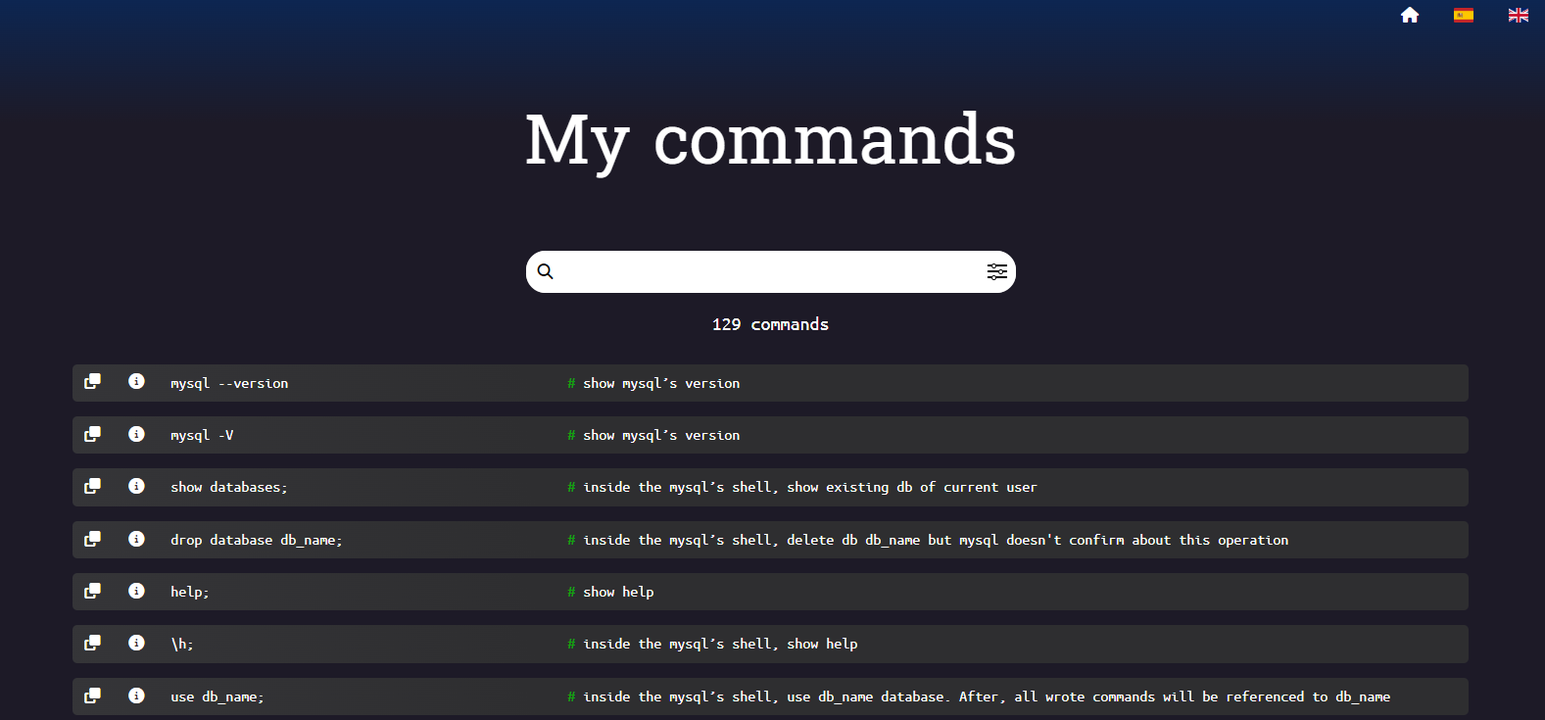
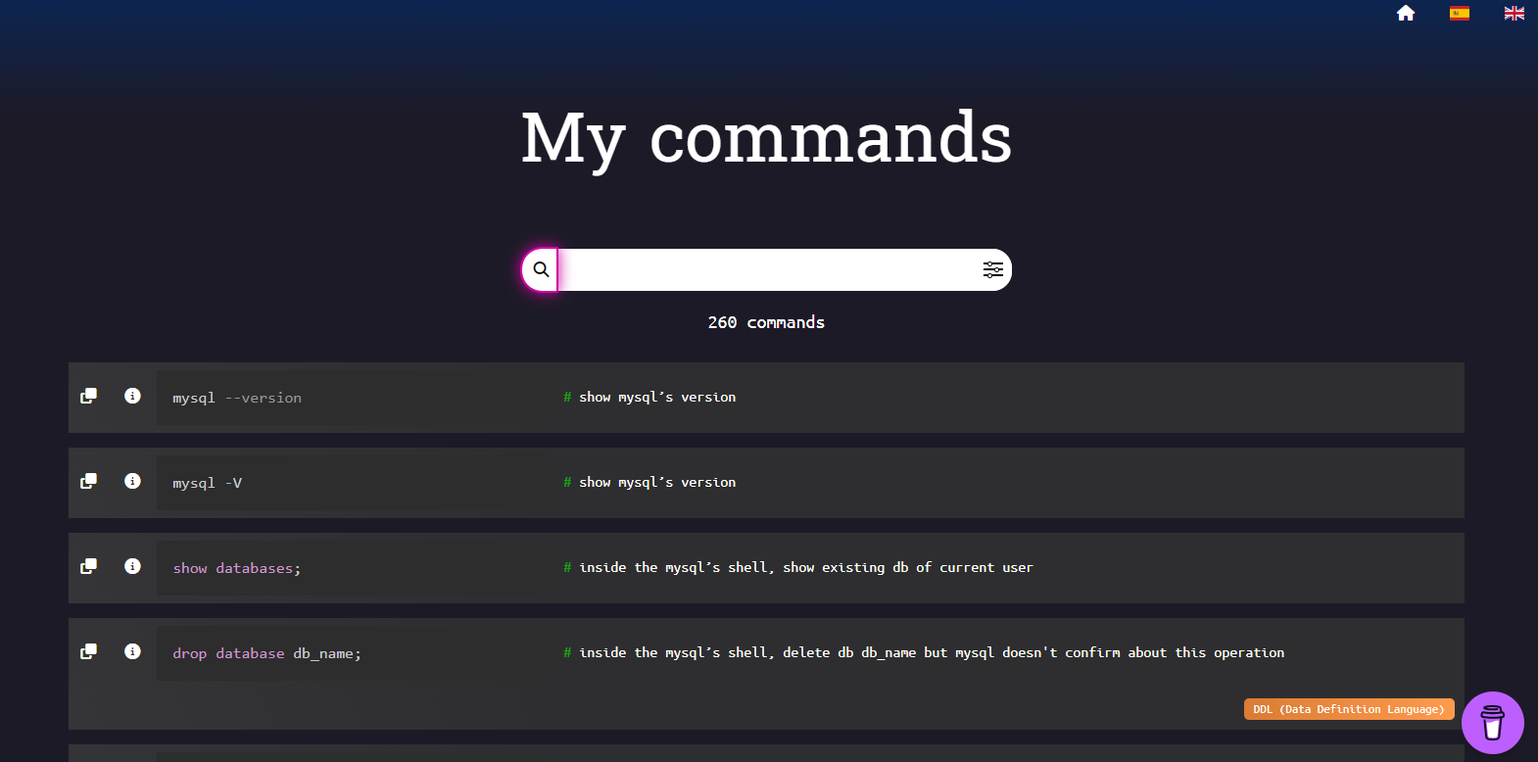
Update REASDME.md 13-05-2023

diff --git a/src/js/prism.js b/src/js/prism.js
@@ -1,12 +1,14 @@
 /* PrismJS 1.29.0
-https://prismjs.com/download.html#themes=prism-tomorrow&languages=markup+css+clike+javascript+bash+jsx+tsx+sql+typescript */
+https://prismjs.com/download.html#themes=prism-tomorrow&languages=markup+css+clike+javascript+bash+git+jsx+tsx+sql+typescript+typoscript */
 var _self="undefined"!=typeof window?window:"undefined"!=typeof WorkerGlobalScope&&self instanceof WorkerGlobalScope?self:{},Prism=function(e){var n=/(?:^|\s)lang(?:uage)?-([\w-]+)(?=\s|$)/i,t=0,r={},a={manual:e.Prism&&e.Prism.manual,disableWorkerMessageHandler:e.Prism&&e.Prism.disableWorkerMessageHandler,util:{encode:function e(n){return n instanceof i?new i(n.type,e(n.content),n.alias):Array.isArray(n)?n.map(e):n.replace(/&/g,"&amp;").replace(/</g,"&lt;").replace(/\u00a0/g," ")},type:function(e){return Object.prototype.toString.call(e).slice(8,-1)},objId:function(e){return e.__id||Object.defineProperty(e,"__id",{value:++t}),e.__id},clone:function e(n,t){var r,i;switch(t=t||{},a.util.type(n)){case"Object":if(i=a.util.objId(n),t[i])return t[i];for(var l in r={},t[i]=r,n)n.hasOwnProperty(l)&&(r[l]=e(n[l],t));return r;case"Array":return i=a.util.objId(n),t[i]?t[i]:(r=[],t[i]=r,n.forEach((function(n,a){r[a]=e(n,t)})),r);default:return n}},getLanguage:function(e){for(;e;){var t=n.exec(e.className);if(t)return t[1].toLowerCase();e=e.parentElement}return"none"},setLanguage:function(e,t){e.className=e.className.replace(RegExp(n,"gi"),""),e.classList.add("language-"+t)},currentScript:function(){if("undefined"==typeof document)return null;if("currentScript"in document)return document.currentScript;try{throw new Error}catch(r){var e=(/at [^(\r\n]*\((.*):[^:]+:[^:]+\)$/i.exec(r.stack)||[])[1];if(e){var n=document.getElementsByTagName("script");for(var t in n)if(n[t].src==e)return n[t]}return null}},isActive:function(e,n,t){for(var r="no-"+n;e;){var a=e.classList;if(a.contains(n))return!0;if(a.contains(r))return!1;e=e.parentElement}return!!t}},languages:{plain:r,plaintext:r,text:r,txt:r,extend:function(e,n){var t=a.util.clone(a.languages[e]);for(var r in n)t[r]=n[r];return t},insertBefore:function(e,n,t,r){var i=(r=r||a.languages)[e],l={};for(var o in i)if(i.hasOwnProperty(o)){if(o==n)for(var s in t)t.hasOwnProperty(s)&&(l[s]=t[s]);t.hasOwnProperty(o)||(l[o]=i[o])}var u=r[e];return r[e]=l,a.languages.DFS(a.languages,(function(n,t){t===u&&n!=e&&(this[n]=l)})),l},DFS:function e(n,t,r,i){i=i||{};var l=a.util.objId;for(var o in n)if(n.hasOwnProperty(o)){t.call(n,o,n[o],r||o);var s=n[o],u=a.util.type(s);"Object"!==u||i[l(s)]?"Array"!==u||i[l(s)]||(i[l(s)]=!0,e(s,t,o,i)):(i[l(s)]=!0,e(s,t,null,i))}}},plugins:{},highlightAll:function(e,n){a.highlightAllUnder(document,e,n)},highlightAllUnder:function(e,n,t){var r={callback:t,container:e,selector:'code[class*="language-"], [class*="language-"] code, code[class*="lang-"], [class*="lang-"] code'};a.hooks.run("before-highlightall",r),r.elements=Array.prototype.slice.apply(r.container.querySelectorAll(r.selector)),a.hooks.run("before-all-elements-highlight",r);for(var i,l=0;i=r.elements[l++];)a.highlightElement(i,!0===n,r.callback)},highlightElement:function(n,t,r){var i=a.util.getLanguage(n),l=a.languages[i];a.util.setLanguage(n,i);var o=n.parentElement;o&&"pre"===o.nodeName.toLowerCase()&&a.util.setLanguage(o,i);var s={element:n,language:i,grammar:l,code:n.textContent};function u(e){s.highlightedCode=e,a.hooks.run("before-insert",s),s.element.innerHTML=s.highlightedCode,a.hooks.run("after-highlight",s),a.hooks.run("complete",s),r&&r.call(s.element)}if(a.hooks.run("before-sanity-check",s),(o=s.element.parentElement)&&"pre"===o.nodeName.toLowerCase()&&!o.hasAttribute("tabindex")&&o.setAttribute("tabindex","0"),!s.code)return a.hooks.run("complete",s),void(r&&r.call(s.element));if(a.hooks.run("before-highlight",s),s.grammar)if(t&&e.Worker){var c=new Worker(a.filename);c.onmessage=function(e){u(e.data)},c.postMessage(JSON.stringify({language:s.language,code:s.code,immediateClose:!0}))}else u(a.highlight(s.code,s.grammar,s.language));else u(a.util.encode(s.code))},highlight:function(e,n,t){var r={code:e,grammar:n,language:t};if(a.hooks.run("before-tokenize",r),!r.grammar)throw new Error('The language "'+r.language+'" has no grammar.');return r.tokens=a.tokenize(r.code,r.grammar),a.hooks.run("after-tokenize",r),i.stringify(a.util.encode(r.tokens),r.language)},tokenize:function(e,n){var t=n.rest;if(t){for(var r in t)n[r]=t[r];delete n.rest}var a=new s;return u(a,a.head,e),o(e,a,n,a.head,0),function(e){for(var n=[],t=e.head.next;t!==e.tail;)n.push(t.value),t=t.next;return n}(a)},hooks:{all:{},add:function(e,n){var t=a.hooks.all;t[e]=t[e]||[],t[e].push(n)},run:function(e,n){var t=a.hooks.all[e];if(t&&t.length)for(var r,i=0;r=t[i++];)r(n)}},Token:i};function i(e,n,t,r){this.type=e,this.content=n,this.alias=t,this.length=0|(r||"").length}function l(e,n,t,r){e.lastIndex=n;var a=e.exec(t);if(a&&r&&a[1]){var i=a[1].length;a.index+=i,a[0]=a[0].slice(i)}return a}function o(e,n,t,r,s,g){for(var f in t)if(t.hasOwnProperty(f)&&t[f]){var h=t[f];h=Array.isArray(h)?h:[h];for(var d=0;d<h.length;++d){if(g&&g.cause==f+","+d)return;var v=h[d],p=v.inside,m=!!v.lookbehind,y=!!v.greedy,k=v.alias;if(y&&!v.pattern.global){var x=v.pattern.toString().match(/[imsuy]*$/)[0];v.pattern=RegExp(v.pattern.source,x+"g")}for(var b=v.pattern||v,w=r.next,A=s;w!==n.tail&&!(g&&A>=g.reach);A+=w.value.length,w=w.next){var E=w.value;if(n.length>e.length)return;if(!(E instanceof i)){var P,L=1;if(y){if(!(P=l(b,A,e,m))||P.index>=e.length)break;var S=P.index,O=P.index+P[0].length,j=A;for(j+=w.value.length;S>=j;)j+=(w=w.next).value.length;if(A=j-=w.value.length,w.value instanceof i)continue;for(var C=w;C!==n.tail&&(j<O||"string"==typeof C.value);C=C.next)L++,j+=C.value.length;L--,E=e.slice(A,j),P.index-=A}else if(!(P=l(b,0,E,m)))continue;S=P.index;var N=P[0],_=E.slice(0,S),M=E.slice(S+N.length),W=A+E.length;g&&W>g.reach&&(g.reach=W);var z=w.prev;if(_&&(z=u(n,z,_),A+=_.length),c(n,z,L),w=u(n,z,new i(f,p?a.tokenize(N,p):N,k,N)),M&&u(n,w,M),L>1){var I={cause:f+","+d,reach:W};o(e,n,t,w.prev,A,I),g&&I.reach>g.reach&&(g.reach=I.reach)}}}}}}function s(){var e={value:null,prev:null,next:null},n={value:null,prev:e,next:null};e.next=n,this.head=e,this.tail=n,this.length=0}function u(e,n,t){var r=n.next,a={value:t,prev:n,next:r};return n.next=a,r.prev=a,e.length++,a}function c(e,n,t){for(var r=n.next,a=0;a<t&&r!==e.tail;a++)r=r.next;n.next=r,r.prev=n,e.length-=a}if(e.Prism=a,i.stringify=function e(n,t){if("string"==typeof n)return n;if(Array.isArray(n)){var r="";return n.forEach((function(n){r+=e(n,t)})),r}var i={type:n.type,content:e(n.content,t),tag:"span",classes:["token",n.type],attributes:{},language:t},l=n.alias;l&&(Array.isArray(l)?Array.prototype.push.apply(i.classes,l):i.classes.push(l)),a.hooks.run("wrap",i);var o="";for(var s in i.attributes)o+=" "+s+'="'+(i.attributes[s]||"").replace(/"/g,"&quot;")+'"';return"<"+i.tag+' class="'+i.classes.join(" ")+'"'+o+">"+i.content+"</"+i.tag+">"},!e.document)return e.addEventListener?(a.disableWorkerMessageHandler||e.addEventListener("message",(function(n){var t=JSON.parse(n.data),r=t.language,i=t.code,l=t.immediateClose;e.postMessage(a.highlight(i,a.languages[r],r)),l&&e.close()}),!1),a):a;var g=a.util.currentScript();function f(){a.manual||a.highlightAll()}if(g&&(a.filename=g.src,g.hasAttribute("data-manual")&&(a.manual=!0)),!a.manual){var h=document.readyState;"loading"===h||"interactive"===h&&g&&g.defer?document.addEventListener("DOMContentLoaded",f):window.requestAnimationFrame?window.requestAnimationFrame(f):window.setTimeout(f,16)}return a}(_self);"undefined"!=typeof module&&module.exports&&(module.exports=Prism),"undefined"!=typeof global&&(global.Prism=Prism);
 Prism.languages.markup={comment:{pattern:/<!--(?:(?!<!--)[\s\S])*?-->/,greedy:!0},prolog:{pattern:/<\?[\s\S]+?\?>/,greedy:!0},doctype:{pattern:/<!DOCTYPE(?:[^>"'[\]]|"[^"]*"|'[^']*')+(?:\[(?:[^<"'\]]|"[^"]*"|'[^']*'|<(?!!--)|<!--(?:[^-]|-(?!->))*-->)*\]\s*)?>/i,greedy:!0,inside:{"internal-subset":{pattern:/(^[^\[]*\[)[\s\S]+(?=\]>$)/,lookbehind:!0,greedy:!0,inside:null},string:{pattern:/"[^"]*"|'[^']*'/,greedy:!0},punctuation:/^<!|>$|[[\]]/,"doctype-tag":/^DOCTYPE/i,name:/[^\s<>'"]+/}},cdata:{pattern:/<!\[CDATA\[[\s\S]*?\]\]>/i,greedy:!0},tag:{pattern:/<\/?(?!\d)[^\s>\/=$<%]+(?:\s(?:\s*[^\s>\/=]+(?:\s*=\s*(?:"[^"]*"|'[^']*'|[^\s'">=]+(?=[\s>]))|(?=[\s/>])))+)?\s*\/?>/,greedy:!0,inside:{tag:{pattern:/^<\/?[^\s>\/]+/,inside:{punctuation:/^<\/?/,namespace:/^[^\s>\/:]+:/}},"special-attr":[],"attr-value":{pattern:/=\s*(?:"[^"]*"|'[^']*'|[^\s'">=]+)/,inside:{punctuation:[{pattern:/^=/,alias:"attr-equals"},{pattern:/^(\s*)["']|["']$/,lookbehind:!0}]}},punctuation:/\/?>/,"attr-name":{pattern:/[^\s>\/]+/,inside:{namespace:/^[^\s>\/:]+:/}}}},entity:[{pattern:/&[\da-z]{1,8};/i,alias:"named-entity"},/&#x?[\da-f]{1,8};/i]},Prism.languages.markup.tag.inside["attr-value"].inside.entity=Prism.languages.markup.entity,Prism.languages.markup.doctype.inside["internal-subset"].inside=Prism.languages.markup,Prism.hooks.add("wrap",(function(a){"entity"===a.type&&(a.attributes.title=a.content.replace(/&amp;/,"&"))})),Object.defineProperty(Prism.languages.markup.tag,"addInlined",{value:function(a,e){var s={};s["language-"+e]={pattern:/(^<!\[CDATA\[)[\s\S]+?(?=\]\]>$)/i,lookbehind:!0,inside:Prism.languages[e]},s.cdata=/^<!\[CDATA\[|\]\]>$/i;var t={"included-cdata":{pattern:/<!\[CDATA\[[\s\S]*?\]\]>/i,inside:s}};t["language-"+e]={pattern:/[\s\S]+/,inside:Prism.languages[e]};var n={};n[a]={pattern:RegExp("(<__[^>]*>)(?:<!\\[CDATA\\[(?:[^\\]]|\\](?!\\]>))*\\]\\]>|(?!<!\\[CDATA\\[)[^])*?(?=</__>)".replace(/__/g,(function(){return a})),"i"),lookbehind:!0,greedy:!0,inside:t},Prism.languages.insertBefore("markup","cdata",n)}}),Object.defineProperty(Prism.languages.markup.tag,"addAttribute",{value:function(a,e){Prism.languages.markup.tag.inside["special-attr"].push({pattern:RegExp("(^|[\"'\\s])(?:"+a+")\\s*=\\s*(?:\"[^\"]*\"|'[^']*'|[^\\s'\">=]+(?=[\\s>]))","i"),lookbehind:!0,inside:{"attr-name":/^[^\s=]+/,"attr-value":{pattern:/=[\s\S]+/,inside:{value:{pattern:/(^=\s*(["']|(?!["'])))\S[\s\S]*(?=\2$)/,lookbehind:!0,alias:[e,"language-"+e],inside:Prism.languages[e]},punctuation:[{pattern:/^=/,alias:"attr-equals"},/"|'/]}}}})}}),Prism.languages.html=Prism.languages.markup,Prism.languages.mathml=Prism.languages.markup,Prism.languages.svg=Prism.languages.markup,Prism.languages.xml=Prism.languages.extend("markup",{}),Prism.languages.ssml=Prism.languages.xml,Prism.languages.atom=Prism.languages.xml,Prism.languages.rss=Prism.languages.xml;
 !function(s){var e=/(?:"(?:\\(?:\r\n|[\s\S])|[^"\\\r\n])*"|'(?:\\(?:\r\n|[\s\S])|[^'\\\r\n])*')/;s.languages.css={comment:/\/\*[\s\S]*?\*\//,atrule:{pattern:RegExp("@[\\w-](?:[^;{\\s\"']|\\s+(?!\\s)|"+e.source+")*?(?:;|(?=\\s*\\{))"),inside:{rule:/^@[\w-]+/,"selector-function-argument":{pattern:/(\bselector\s*\(\s*(?![\s)]))(?:[^()\s]|\s+(?![\s)])|\((?:[^()]|\([^()]*\))*\))+(?=\s*\))/,lookbehind:!0,alias:"selector"},keyword:{pattern:/(^|[^\w-])(?:and|not|only|or)(?![\w-])/,lookbehind:!0}}},url:{pattern:RegExp("\\burl\\((?:"+e.source+"|(?:[^\\\\\r\n()\"']|\\\\[^])*)\\)","i"),greedy:!0,inside:{function:/^url/i,punctuation:/^\(|\)$/,string:{pattern:RegExp("^"+e.source+"$"),alias:"url"}}},selector:{pattern:RegExp("(^|[{}\\s])[^{}\\s](?:[^{};\"'\\s]|\\s+(?![\\s{])|"+e.source+")*(?=\\s*\\{)"),lookbehind:!0},string:{pattern:e,greedy:!0},property:{pattern:/(^|[^-\w\xA0-\uFFFF])(?!\s)[-_a-z\xA0-\uFFFF](?:(?!\s)[-\w\xA0-\uFFFF])*(?=\s*:)/i,lookbehind:!0},important:/!important\b/i,function:{pattern:/(^|[^-a-z0-9])[-a-z0-9]+(?=\()/i,lookbehind:!0},punctuation:/[(){};:,]/},s.languages.css.atrule.inside.rest=s.languages.css;var t=s.languages.markup;t&&(t.tag.addInlined("style","css"),t.tag.addAttribute("style","css"))}(Prism);
 Prism.languages.clike={comment:[{pattern:/(^|[^\\])\/\*[\s\S]*?(?:\*\/|$)/,lookbehind:!0,greedy:!0},{pattern:/(^|[^\\:])\/\/.*/,lookbehind:!0,greedy:!0}],string:{pattern:/(["'])(?:\\(?:\r\n|[\s\S])|(?!\1)[^\\\r\n])*\1/,greedy:!0},"class-name":{pattern:/(\b(?:class|extends|implements|instanceof|interface|new|trait)\s+|\bcatch\s+\()[\w.\\]+/i,lookbehind:!0,inside:{punctuation:/[.\\]/}},keyword:/\b(?:break|catch|continue|do|else|finally|for|function|if|in|instanceof|new|null|return|throw|try|while)\b/,boolean:/\b(?:false|true)\b/,function:/\b\w+(?=\()/,number:/\b0x[\da-f]+\b|(?:\b\d+(?:\.\d*)?|\B\.\d+)(?:e[+-]?\d+)?/i,operator:/[<>]=?|[!=]=?=?|--?|\+\+?|&&?|\|\|?|[?*/~^%]/,punctuation:/[{}[\];(),.:]/};
 Prism.languages.javascript=Prism.languages.extend("clike",{"class-name":[Prism.languages.clike["class-name"],{pattern:/(^|[^$\w\xA0-\uFFFF])(?!\s)[_$A-Z\xA0-\uFFFF](?:(?!\s)[$\w\xA0-\uFFFF])*(?=\.(?:constructor|prototype))/,lookbehind:!0}],keyword:[{pattern:/((?:^|\})\s*)catch\b/,lookbehind:!0},{pattern:/(^|[^.]|\.\.\.\s*)\b(?:as|assert(?=\s*\{)|async(?=\s*(?:function\b|\(|[$\w\xA0-\uFFFF]|$))|await|break|case|class|const|continue|debugger|default|delete|do|else|enum|export|extends|finally(?=\s*(?:\{|$))|for|from(?=\s*(?:['"]|$))|function|(?:get|set)(?=\s*(?:[#\[$\w\xA0-\uFFFF]|$))|if|implements|import|in|instanceof|interface|let|new|null|of|package|private|protected|public|return|static|super|switch|this|throw|try|typeof|undefined|var|void|while|with|yield)\b/,lookbehind:!0}],function:/#?(?!\s)[_$a-zA-Z\xA0-\uFFFF](?:(?!\s)[$\w\xA0-\uFFFF])*(?=\s*(?:\.\s*(?:apply|bind|call)\s*)?\()/,number:{pattern:RegExp("(^|[^\\w$])(?:NaN|Infinity|0[bB][01]+(?:_[01]+)*n?|0[oO][0-7]+(?:_[0-7]+)*n?|0[xX][\\dA-Fa-f]+(?:_[\\dA-Fa-f]+)*n?|\\d+(?:_\\d+)*n|(?:\\d+(?:_\\d+)*(?:\\.(?:\\d+(?:_\\d+)*)?)?|\\.\\d+(?:_\\d+)*)(?:[Ee][+-]?\\d+(?:_\\d+)*)?)(?![\\w$])"),lookbehind:!0},operator:/--|\+\+|\*\*=?|=>|&&=?|\|\|=?|[!=]==|<<=?|>>>?=?|[-+*/%&|^!=<>]=?|\.{3}|\?\?=?|\?\.?|[~:]/}),Prism.languages.javascript["class-name"][0].pattern=/(\b(?:class|extends|implements|instanceof|interface|new)\s+)[\w.\\]+/,Prism.languages.insertBefore("javascript","keyword",{regex:{pattern:RegExp("((?:^|[^$\\w\\xA0-\\uFFFF.\"'\\])\\s]|\\b(?:return|yield))\\s*)/(?:(?:\\[(?:[^\\]\\\\\r\n]|\\\\.)*\\]|\\\\.|[^/\\\\\\[\r\n])+/[dgimyus]{0,7}|(?:\\[(?:[^[\\]\\\\\r\n]|\\\\.|\\[(?:[^[\\]\\\\\r\n]|\\\\.|\\[(?:[^[\\]\\\\\r\n]|\\\\.)*\\])*\\])*\\]|\\\\.|[^/\\\\\\[\r\n])+/[dgimyus]{0,7}v[dgimyus]{0,7})(?=(?:\\s|/\\*(?:[^*]|\\*(?!/))*\\*/)*(?:$|[\r\n,.;:})\\]]|//))"),lookbehind:!0,greedy:!0,inside:{"regex-source":{pattern:/^(\/)[\s\S]+(?=\/[a-z]*$)/,lookbehind:!0,alias:"language-regex",inside:Prism.languages.regex},"regex-delimiter":/^\/|\/$/,"regex-flags":/^[a-z]+$/}},"function-variable":{pattern:/#?(?!\s)[_$a-zA-Z\xA0-\uFFFF](?:(?!\s)[$\w\xA0-\uFFFF])*(?=\s*[=:]\s*(?:async\s*)?(?:\bfunction\b|(?:\((?:[^()]|\([^()]*\))*\)|(?!\s)[_$a-zA-Z\xA0-\uFFFF](?:(?!\s)[$\w\xA0-\uFFFF])*)\s*=>))/,alias:"function"},parameter:[{pattern:/(function(?:\s+(?!\s)[_$a-zA-Z\xA0-\uFFFF](?:(?!\s)[$\w\xA0-\uFFFF])*)?\s*\(\s*)(?!\s)(?:[^()\s]|\s+(?![\s)])|\([^()]*\))+(?=\s*\))/,lookbehind:!0,inside:Prism.languages.javascript},{pattern:/(^|[^$\w\xA0-\uFFFF])(?!\s)[_$a-z\xA0-\uFFFF](?:(?!\s)[$\w\xA0-\uFFFF])*(?=\s*=>)/i,lookbehind:!0,inside:Prism.languages.javascript},{pattern:/(\(\s*)(?!\s)(?:[^()\s]|\s+(?![\s)])|\([^()]*\))+(?=\s*\)\s*=>)/,lookbehind:!0,inside:Prism.languages.javascript},{pattern:/((?:\b|\s|^)(?!(?:as|async|await|break|case|catch|class|const|continue|debugger|default|delete|do|else|enum|export|extends|finally|for|from|function|get|if|implements|import|in|instanceof|interface|let|new|null|of|package|private|protected|public|return|set|static|super|switch|this|throw|try|typeof|undefined|var|void|while|with|yield)(?![$\w\xA0-\uFFFF]))(?:(?!\s)[_$a-zA-Z\xA0-\uFFFF](?:(?!\s)[$\w\xA0-\uFFFF])*\s*)\(\s*|\]\s*\(\s*)(?!\s)(?:[^()\s]|\s+(?![\s)])|\([^()]*\))+(?=\s*\)\s*\{)/,lookbehind:!0,inside:Prism.languages.javascript}],constant:/\b[A-Z](?:[A-Z_]|\dx?)*\b/}),Prism.languages.insertBefore("javascript","string",{hashbang:{pattern:/^#!.*/,greedy:!0,alias:"comment"},"template-string":{pattern:/`(?:\\[\s\S]|\$\{(?:[^{}]|\{(?:[^{}]|\{[^}]*\})*\})+\}|(?!\$\{)[^\\`])*`/,greedy:!0,inside:{"template-punctuation":{pattern:/^`|`$/,alias:"string"},interpolation:{pattern:/((?:^|[^\\])(?:\\{2})*)\$\{(?:[^{}]|\{(?:[^{}]|\{[^}]*\})*\})+\}/,lookbehind:!0,inside:{"interpolation-punctuation":{pattern:/^\$\{|\}$/,alias:"punctuation"},rest:Prism.languages.javascript}},string:/[\s\S]+/}},"string-property":{pattern:/((?:^|[,{])[ \t]*)(["'])(?:\\(?:\r\n|[\s\S])|(?!\2)[^\\\r\n])*\2(?=\s*:)/m,lookbehind:!0,greedy:!0,alias:"property"}}),Prism.languages.insertBefore("javascript","operator",{"literal-property":{pattern:/((?:^|[,{])[ \t]*)(?!\s)[_$a-zA-Z\xA0-\uFFFF](?:(?!\s)[$\w\xA0-\uFFFF])*(?=\s*:)/m,lookbehind:!0,alias:"property"}}),Prism.languages.markup&&(Prism.languages.markup.tag.addInlined("script","javascript"),Prism.languages.markup.tag.addAttribute("on(?:abort|blur|change|click|composition(?:end|start|update)|dblclick|error|focus(?:in|out)?|key(?:down|up)|load|mouse(?:down|enter|leave|move|out|over|up)|reset|resize|scroll|select|slotchange|submit|unload|wheel)","javascript")),Prism.languages.js=Prism.languages.javascript;
 !function(e){var t="\\b(?:BASH|BASHOPTS|BASH_ALIASES|BASH_ARGC|BASH_ARGV|BASH_CMDS|BASH_COMPLETION_COMPAT_DIR|BASH_LINENO|BASH_REMATCH|BASH_SOURCE|BASH_VERSINFO|BASH_VERSION|COLORTERM|COLUMNS|COMP_WORDBREAKS|DBUS_SESSION_BUS_ADDRESS|DEFAULTS_PATH|DESKTOP_SESSION|DIRSTACK|DISPLAY|EUID|GDMSESSION|GDM_LANG|GNOME_KEYRING_CONTROL|GNOME_KEYRING_PID|GPG_AGENT_INFO|GROUPS|HISTCONTROL|HISTFILE|HISTFILESIZE|HISTSIZE|HOME|HOSTNAME|HOSTTYPE|IFS|INSTANCE|JOB|LANG|LANGUAGE|LC_ADDRESS|LC_ALL|LC_IDENTIFICATION|LC_MEASUREMENT|LC_MONETARY|LC_NAME|LC_NUMERIC|LC_PAPER|LC_TELEPHONE|LC_TIME|LESSCLOSE|LESSOPEN|LINES|LOGNAME|LS_COLORS|MACHTYPE|MAILCHECK|MANDATORY_PATH|NO_AT_BRIDGE|OLDPWD|OPTERR|OPTIND|ORBIT_SOCKETDIR|OSTYPE|PAPERSIZE|PATH|PIPESTATUS|PPID|PS1|PS2|PS3|PS4|PWD|RANDOM|REPLY|SECONDS|SELINUX_INIT|SESSION|SESSIONTYPE|SESSION_MANAGER|SHELL|SHELLOPTS|SHLVL|SSH_AUTH_SOCK|TERM|UID|UPSTART_EVENTS|UPSTART_INSTANCE|UPSTART_JOB|UPSTART_SESSION|USER|WINDOWID|XAUTHORITY|XDG_CONFIG_DIRS|XDG_CURRENT_DESKTOP|XDG_DATA_DIRS|XDG_GREETER_DATA_DIR|XDG_MENU_PREFIX|XDG_RUNTIME_DIR|XDG_SEAT|XDG_SEAT_PATH|XDG_SESSION_DESKTOP|XDG_SESSION_ID|XDG_SESSION_PATH|XDG_SESSION_TYPE|XDG_VTNR|XMODIFIERS)\\b",a={pattern:/(^(["']?)\w+\2)[ \t]+\S.*/,lookbehind:!0,alias:"punctuation",inside:null},n={bash:a,environment:{pattern:RegExp("\\$"+t),alias:"constant"},variable:[{pattern:/\$?\(\([\s\S]+?\)\)/,greedy:!0,inside:{variable:[{pattern:/(^\$\(\([\s\S]+)\)\)/,lookbehind:!0},/^\$\(\(/],number:/\b0x[\dA-Fa-f]+\b|(?:\b\d+(?:\.\d*)?|\B\.\d+)(?:[Ee]-?\d+)?/,operator:/--|\+\+|\*\*=?|<<=?|>>=?|&&|\|\||[=!+\-*/%<>^&|]=?|[?~:]/,punctuation:/\(\(?|\)\)?|,|;/}},{pattern:/\$\((?:\([^)]+\)|[^()])+\)|`[^`]+`/,greedy:!0,inside:{variable:/^\$\(|^`|\)$|`$/}},{pattern:/\$\{[^}]+\}/,greedy:!0,inside:{operator:/:[-=?+]?|[!\/]|##?|%%?|\^\^?|,,?/,punctuation:/[\[\]]/,environment:{pattern:RegExp("(\\{)"+t),lookbehind:!0,alias:"constant"}}},/\$(?:\w+|[#?*!@$])/],entity:/\\(?:[abceEfnrtv\\"]|O?[0-7]{1,3}|U[0-9a-fA-F]{8}|u[0-9a-fA-F]{4}|x[0-9a-fA-F]{1,2})/};e.languages.bash={shebang:{pattern:/^#!\s*\/.*/,alias:"important"},comment:{pattern:/(^|[^"{\\$])#.*/,lookbehind:!0},"function-name":[{pattern:/(\bfunction\s+)[\w-]+(?=(?:\s*\(?:\s*\))?\s*\{)/,lookbehind:!0,alias:"function"},{pattern:/\b[\w-]+(?=\s*\(\s*\)\s*\{)/,alias:"function"}],"for-or-select":{pattern:/(\b(?:for|select)\s+)\w+(?=\s+in\s)/,alias:"variable",lookbehind:!0},"assign-left":{pattern:/(^|[\s;|&]|[<>]\()\w+(?:\.\w+)*(?=\+?=)/,inside:{environment:{pattern:RegExp("(^|[\\s;|&]|[<>]\\()"+t),lookbehind:!0,alias:"constant"}},alias:"variable",lookbehind:!0},parameter:{pattern:/(^|\s)-{1,2}(?:\w+:[+-]?)?\w+(?:\.\w+)*(?=[=\s]|$)/,alias:"variable",lookbehind:!0},string:[{pattern:/((?:^|[^<])<<-?\s*)(\w+)\s[\s\S]*?(?:\r?\n|\r)\2/,lookbehind:!0,greedy:!0,inside:n},{pattern:/((?:^|[^<])<<-?\s*)(["'])(\w+)\2\s[\s\S]*?(?:\r?\n|\r)\3/,lookbehind:!0,greedy:!0,inside:{bash:a}},{pattern:/(^|[^\\](?:\\\\)*)"(?:\\[\s\S]|\$\([^)]+\)|\$(?!\()|`[^`]+`|[^"\\`$])*"/,lookbehind:!0,greedy:!0,inside:n},{pattern:/(^|[^$\\])'[^']*'/,lookbehind:!0,greedy:!0},{pattern:/\$'(?:[^'\\]|\\[\s\S])*'/,greedy:!0,inside:{entity:n.entity}}],environment:{pattern:RegExp("\\$?"+t),alias:"constant"},variable:n.variable,function:{pattern:/(^|[\s;|&]|[<>]\()(?:add|apropos|apt|apt-cache|apt-get|aptitude|aspell|automysqlbackup|awk|basename|bash|bc|bconsole|bg|bzip2|cal|cargo|cat|cfdisk|chgrp|chkconfig|chmod|chown|chroot|cksum|clear|cmp|column|comm|composer|cp|cron|crontab|csplit|curl|cut|date|dc|dd|ddrescue|debootstrap|df|diff|diff3|dig|dir|dircolors|dirname|dirs|dmesg|docker|docker-compose|du|egrep|eject|env|ethtool|expand|expect|expr|fdformat|fdisk|fg|fgrep|file|find|fmt|fold|format|free|fsck|ftp|fuser|gawk|git|gparted|grep|groupadd|groupdel|groupmod|groups|grub-mkconfig|gzip|halt|head|hg|history|host|hostname|htop|iconv|id|ifconfig|ifdown|ifup|import|install|ip|java|jobs|join|kill|killall|less|link|ln|locate|logname|logrotate|look|lpc|lpr|lprint|lprintd|lprintq|lprm|ls|lsof|lynx|make|man|mc|mdadm|mkconfig|mkdir|mke2fs|mkfifo|mkfs|mkisofs|mknod|mkswap|mmv|more|most|mount|mtools|mtr|mutt|mv|nano|nc|netstat|nice|nl|node|nohup|notify-send|npm|nslookup|op|open|parted|passwd|paste|pathchk|ping|pkill|pnpm|podman|podman-compose|popd|pr|printcap|printenv|ps|pushd|pv|quota|quotacheck|quotactl|ram|rar|rcp|reboot|remsync|rename|renice|rev|rm|rmdir|rpm|rsync|scp|screen|sdiff|sed|sendmail|seq|service|sftp|sh|shellcheck|shuf|shutdown|sleep|slocate|sort|split|ssh|stat|strace|su|sudo|sum|suspend|swapon|sync|sysctl|tac|tail|tar|tee|time|timeout|top|touch|tr|traceroute|tsort|tty|umount|uname|unexpand|uniq|units|unrar|unshar|unzip|update-grub|uptime|useradd|userdel|usermod|users|uudecode|uuencode|v|vcpkg|vdir|vi|vim|virsh|vmstat|wait|watch|wc|wget|whereis|which|who|whoami|write|xargs|xdg-open|yarn|yes|zenity|zip|zsh|zypper)(?=$|[)\s;|&])/,lookbehind:!0},keyword:{pattern:/(^|[\s;|&]|[<>]\()(?:case|do|done|elif|else|esac|fi|for|function|if|in|select|then|until|while)(?=$|[)\s;|&])/,lookbehind:!0},builtin:{pattern:/(^|[\s;|&]|[<>]\()(?:\.|:|alias|bind|break|builtin|caller|cd|command|continue|declare|echo|enable|eval|exec|exit|export|getopts|hash|help|let|local|logout|mapfile|printf|pwd|read|readarray|readonly|return|set|shift|shopt|source|test|times|trap|type|typeset|ulimit|umask|unalias|unset)(?=$|[)\s;|&])/,lookbehind:!0,alias:"class-name"},boolean:{pattern:/(^|[\s;|&]|[<>]\()(?:false|true)(?=$|[)\s;|&])/,lookbehind:!0},"file-descriptor":{pattern:/\B&\d\b/,alias:"important"},operator:{pattern:/\d?<>|>\||\+=|=[=~]?|!=?|<<[<-]?|[&\d]?>>|\d[<>]&?|[<>][&=]?|&[>&]?|\|[&|]?/,inside:{"file-descriptor":{pattern:/^\d/,alias:"important"}}},punctuation:/\$?\(\(?|\)\)?|\.\.|[{}[\];\\]/,number:{pattern:/(^|\s)(?:[1-9]\d*|0)(?:[.,]\d+)?\b/,lookbehind:!0}},a.inside=e.languages.bash;for(var s=["comment","function-name","for-or-select","assign-left","parameter","string","environment","function","keyword","builtin","boolean","file-descriptor","operator","punctuation","number"],o=n.variable[1].inside,i=0;i<s.length;i++)o[s[i]]=e.languages.bash[s[i]];e.languages.sh=e.languages.bash,e.languages.shell=e.languages.bash}(Prism);
+Prism.languages.git={comment:/^#.*/m,deleted:/^[-–].*/m,inserted:/^\+.*/m,string:/("|')(?:\\.|(?!\1)[^\\\r\n])*\1/,command:{pattern:/^.*\$ git .*$/m,inside:{parameter:/\s--?\w+/}},coord:/^@@.*@@$/m,"commit-sha1":/^commit \w{40}$/m};
 !function(t){var n=t.util.clone(t.languages.javascript),e="(?:\\{<S>*\\.{3}(?:[^{}]|<BRACES>)*\\})";function a(t,n){return t=t.replace(/<S>/g,(function(){return"(?:\\s|//.*(?!.)|/\\*(?:[^*]|\\*(?!/))\\*/)"})).replace(/<BRACES>/g,(function(){return"(?:\\{(?:\\{(?:\\{[^{}]*\\}|[^{}])*\\}|[^{}])*\\})"})).replace(/<SPREAD>/g,(function(){return e})),RegExp(t,n)}e=a(e).source,t.languages.jsx=t.languages.extend("markup",n),t.languages.jsx.tag.pattern=a("</?(?:[\\w.:-]+(?:<S>+(?:[\\w.:$-]+(?:=(?:\"(?:\\\\[^]|[^\\\\\"])*\"|'(?:\\\\[^]|[^\\\\'])*'|[^\\s{'\"/>=]+|<BRACES>))?|<SPREAD>))*<S>*/?)?>"),t.languages.jsx.tag.inside.tag.pattern=/^<\/?[^\s>\/]*/,t.languages.jsx.tag.inside["attr-value"].pattern=/=(?!\{)(?:"(?:\\[\s\S]|[^\\"])*"|'(?:\\[\s\S]|[^\\'])*'|[^\s'">]+)/,t.languages.jsx.tag.inside.tag.inside["class-name"]=/^[A-Z]\w*(?:\.[A-Z]\w*)*$/,t.languages.jsx.tag.inside.comment=n.comment,t.languages.insertBefore("inside","attr-name",{spread:{pattern:a("<SPREAD>"),inside:t.languages.jsx}},t.languages.jsx.tag),t.languages.insertBefore("inside","special-attr",{script:{pattern:a("=<BRACES>"),alias:"language-javascript",inside:{"script-punctuation":{pattern:/^=(?=\{)/,alias:"punctuation"},rest:t.languages.jsx}}},t.languages.jsx.tag);var s=function(t){return t?"string"==typeof t?t:"string"==typeof t.content?t.content:t.content.map(s).join(""):""},g=function(n){for(var e=[],a=0;a<n.length;a++){var o=n[a],i=!1;if("string"!=typeof o&&("tag"===o.type&&o.content[0]&&"tag"===o.content[0].type?"</"===o.content[0].content[0].content?e.length>0&&e[e.length-1].tagName===s(o.content[0].content[1])&&e.pop():"/>"===o.content[o.content.length-1].content||e.push({tagName:s(o.content[0].content[1]),openedBraces:0}):e.length>0&&"punctuation"===o.type&&"{"===o.content?e[e.length-1].openedBraces++:e.length>0&&e[e.length-1].openedBraces>0&&"punctuation"===o.type&&"}"===o.content?e[e.length-1].openedBraces--:i=!0),(i||"string"==typeof o)&&e.length>0&&0===e[e.length-1].openedBraces){var r=s(o);a<n.length-1&&("string"==typeof n[a+1]||"plain-text"===n[a+1].type)&&(r+=s(n[a+1]),n.splice(a+1,1)),a>0&&("string"==typeof n[a-1]||"plain-text"===n[a-1].type)&&(r=s(n[a-1])+r,n.splice(a-1,1),a--),n[a]=new t.Token("plain-text",r,null,r)}o.content&&"string"!=typeof o.content&&g(o.content)}};t.hooks.add("after-tokenize",(function(t){"jsx"!==t.language&&"tsx"!==t.language||g(t.tokens)}))}(Prism);
 !function(e){e.languages.typescript=e.languages.extend("javascript",{"class-name":{pattern:/(\b(?:class|extends|implements|instanceof|interface|new|type)\s+)(?!keyof\b)(?!\s)[_$a-zA-Z\xA0-\uFFFF](?:(?!\s)[$\w\xA0-\uFFFF])*(?:\s*<(?:[^<>]|<(?:[^<>]|<[^<>]*>)*>)*>)?/,lookbehind:!0,greedy:!0,inside:null},builtin:/\b(?:Array|Function|Promise|any|boolean|console|never|number|string|symbol|unknown)\b/}),e.languages.typescript.keyword.push(/\b(?:abstract|declare|is|keyof|readonly|require)\b/,/\b(?:asserts|infer|interface|module|namespace|type)\b(?=\s*(?:[{_$a-zA-Z\xA0-\uFFFF]|$))/,/\btype\b(?=\s*(?:[\{*]|$))/),delete e.languages.typescript.parameter,delete e.languages.typescript["literal-property"];var s=e.languages.extend("typescript",{});delete s["class-name"],e.languages.typescript["class-name"].inside=s,e.languages.insertBefore("typescript","function",{decorator:{pattern:/@[$\w\xA0-\uFFFF]+/,inside:{at:{pattern:/^@/,alias:"operator"},function:/^[\s\S]+/}},"generic-function":{pattern:/#?(?!\s)[_$a-zA-Z\xA0-\uFFFF](?:(?!\s)[$\w\xA0-\uFFFF])*\s*<(?:[^<>]|<(?:[^<>]|<[^<>]*>)*>)*>(?=\s*\()/,greedy:!0,inside:{function:/^#?(?!\s)[_$a-zA-Z\xA0-\uFFFF](?:(?!\s)[$\w\xA0-\uFFFF])*/,generic:{pattern:/<[\s\S]+/,alias:"class-name",inside:s}}}}),e.languages.ts=e.languages.typescript}(Prism);
 !function(e){var a=e.util.clone(e.languages.typescript);e.languages.tsx=e.languages.extend("jsx",a),delete e.languages.tsx.parameter,delete e.languages.tsx["literal-property"];var t=e.languages.tsx.tag;t.pattern=RegExp("(^|[^\\w$]|(?=</))(?:"+t.pattern.source+")",t.pattern.flags),t.lookbehind=!0}(Prism);
 Prism.languages.sql={comment:{pattern:/(^|[^\\])(?:\/\*[\s\S]*?\*\/|(?:--|\/\/|#).*)/,lookbehind:!0},variable:[{pattern:/@(["'`])(?:\\[\s\S]|(?!\1)[^\\])+\1/,greedy:!0},/@[\w.$]+/],string:{pattern:/(^|[^@\\])("|')(?:\\[\s\S]|(?!\2)[^\\]|\2\2)*\2/,greedy:!0,lookbehind:!0},identifier:{pattern:/(^|[^@\\])`(?:\\[\s\S]|[^`\\]|``)*`/,greedy:!0,lookbehind:!0,inside:{punctuation:/^`|`$/}},function:/\b(?:AVG|COUNT|FIRST|FORMAT|LAST|LCASE|LEN|MAX|MID|MIN|MOD|NOW|ROUND|SUM|UCASE)(?=\s*\()/i,keyword:/\b(?:ACTION|ADD|AFTER|ALGORITHM|ALL|ALTER|ANALYZE|ANY|APPLY|AS|ASC|AUTHORIZATION|AUTO_INCREMENT|BACKUP|BDB|BEGIN|BERKELEYDB|BIGINT|BINARY|BIT|BLOB|BOOL|BOOLEAN|BREAK|BROWSE|BTREE|BULK|BY|CALL|CASCADED?|CASE|CHAIN|CHAR(?:ACTER|SET)?|CHECK(?:POINT)?|CLOSE|CLUSTERED|COALESCE|COLLATE|COLUMNS?|COMMENT|COMMIT(?:TED)?|COMPUTE|CONNECT|CONSISTENT|CONSTRAINT|CONTAINS(?:TABLE)?|CONTINUE|CONVERT|CREATE|CROSS|CURRENT(?:_DATE|_TIME|_TIMESTAMP|_USER)?|CURSOR|CYCLE|DATA(?:BASES?)?|DATE(?:TIME)?|DAY|DBCC|DEALLOCATE|DEC|DECIMAL|DECLARE|DEFAULT|DEFINER|DELAYED|DELETE|DELIMITERS?|DENY|DESC|DESCRIBE|DETERMINISTIC|DISABLE|DISCARD|DISK|DISTINCT|DISTINCTROW|DISTRIBUTED|DO|DOUBLE|DROP|DUMMY|DUMP(?:FILE)?|DUPLICATE|ELSE(?:IF)?|ENABLE|ENCLOSED|END|ENGINE|ENUM|ERRLVL|ERRORS|ESCAPED?|EXCEPT|EXEC(?:UTE)?|EXISTS|EXIT|EXPLAIN|EXTENDED|FETCH|FIELDS|FILE|FILLFACTOR|FIRST|FIXED|FLOAT|FOLLOWING|FOR(?: EACH ROW)?|FORCE|FOREIGN|FREETEXT(?:TABLE)?|FROM|FULL|FUNCTION|GEOMETRY(?:COLLECTION)?|GLOBAL|GOTO|GRANT|GROUP|HANDLER|HASH|HAVING|HOLDLOCK|HOUR|IDENTITY(?:COL|_INSERT)?|IF|IGNORE|IMPORT|INDEX|INFILE|INNER|INNODB|INOUT|INSERT|INT|INTEGER|INTERSECT|INTERVAL|INTO|INVOKER|ISOLATION|ITERATE|JOIN|KEYS?|KILL|LANGUAGE|LAST|LEAVE|LEFT|LEVEL|LIMIT|LINENO|LINES|LINESTRING|LOAD|LOCAL|LOCK|LONG(?:BLOB|TEXT)|LOOP|MATCH(?:ED)?|MEDIUM(?:BLOB|INT|TEXT)|MERGE|MIDDLEINT|MINUTE|MODE|MODIFIES|MODIFY|MONTH|MULTI(?:LINESTRING|POINT|POLYGON)|NATIONAL|NATURAL|NCHAR|NEXT|NO|NONCLUSTERED|NULLIF|NUMERIC|OFF?|OFFSETS?|ON|OPEN(?:DATASOURCE|QUERY|ROWSET)?|OPTIMIZE|OPTION(?:ALLY)?|ORDER|OUT(?:ER|FILE)?|OVER|PARTIAL|PARTITION|PERCENT|PIVOT|PLAN|POINT|POLYGON|PRECEDING|PRECISION|PREPARE|PREV|PRIMARY|PRINT|PRIVILEGES|PROC(?:EDURE)?|PUBLIC|PURGE|QUICK|RAISERROR|READS?|REAL|RECONFIGURE|REFERENCES|RELEASE|RENAME|REPEAT(?:ABLE)?|REPLACE|REPLICATION|REQUIRE|RESIGNAL|RESTORE|RESTRICT|RETURN(?:ING|S)?|REVOKE|RIGHT|ROLLBACK|ROUTINE|ROW(?:COUNT|GUIDCOL|S)?|RTREE|RULE|SAVE(?:POINT)?|SCHEMA|SECOND|SELECT|SERIAL(?:IZABLE)?|SESSION(?:_USER)?|SET(?:USER)?|SHARE|SHOW|SHUTDOWN|SIMPLE|SMALLINT|SNAPSHOT|SOME|SONAME|SQL|START(?:ING)?|STATISTICS|STATUS|STRIPED|SYSTEM_USER|TABLES?|TABLESPACE|TEMP(?:ORARY|TABLE)?|TERMINATED|TEXT(?:SIZE)?|THEN|TIME(?:STAMP)?|TINY(?:BLOB|INT|TEXT)|TOP?|TRAN(?:SACTIONS?)?|TRIGGER|TRUNCATE|TSEQUAL|TYPES?|UNBOUNDED|UNCOMMITTED|UNDEFINED|UNION|UNIQUE|UNLOCK|UNPIVOT|UNSIGNED|UPDATE(?:TEXT)?|USAGE|USE|USER|USING|VALUES?|VAR(?:BINARY|CHAR|CHARACTER|YING)|VIEW|WAITFOR|WARNINGS|WHEN|WHERE|WHILE|WITH(?: ROLLUP|IN)?|WORK|WRITE(?:TEXT)?|YEAR)\b/i,boolean:/\b(?:FALSE|NULL|TRUE)\b/i,number:/\b0x[\da-f]+\b|\b\d+(?:\.\d*)?|\B\.\d+\b/i,operator:/[-+*\/=%^~]|&&?|\|\|?|!=?|<(?:=>?|<|>)?|>[>=]?|\b(?:AND|BETWEEN|DIV|ILIKE|IN|IS|LIKE|NOT|OR|REGEXP|RLIKE|SOUNDS LIKE|XOR)\b/i,punctuation:/[;[\]()`,.]/};
+!function(E){var n=/\b(?:ACT|ACTIFSUB|CARRAY|CASE|CLEARGIF|COA|COA_INT|CONSTANTS|CONTENT|CUR|EDITPANEL|EFFECT|EXT|FILE|FLUIDTEMPLATE|FORM|FRAME|FRAMESET|GIFBUILDER|GMENU|GMENU_FOLDOUT|GMENU_LAYERS|GP|HMENU|HRULER|HTML|IENV|IFSUB|IMAGE|IMGMENU|IMGMENUITEM|IMGTEXT|IMG_RESOURCE|INCLUDE_TYPOSCRIPT|JSMENU|JSMENUITEM|LLL|LOAD_REGISTER|NO|PAGE|RECORDS|RESTORE_REGISTER|TEMPLATE|TEXT|TMENU|TMENUITEM|TMENU_LAYERS|USER|USER_INT|_GIFBUILDER|global|globalString|globalVar)\b/;E.languages.typoscript={comment:[{pattern:/(^|[^\\])\/\*[\s\S]*?(?:\*\/|$)/,lookbehind:!0},{pattern:/(^|[^\\:= \t]|(?:^|[^= \t])[ \t]+)\/\/.*/,lookbehind:!0,greedy:!0},{pattern:/(^|[^"'])#.*/,lookbehind:!0,greedy:!0}],function:[{pattern:/<INCLUDE_TYPOSCRIPT:\s*source\s*=\s*(?:"[^"\r\n]*"|'[^'\r\n]*')\s*>/,inside:{string:{pattern:/"[^"\r\n]*"|'[^'\r\n]*'/,inside:{keyword:n}},keyword:{pattern:/INCLUDE_TYPOSCRIPT/}}},{pattern:/@import\s*(?:"[^"\r\n]*"|'[^'\r\n]*')/,inside:{string:/"[^"\r\n]*"|'[^'\r\n]*'/}}],string:{pattern:/^([^=]*=[< ]?)(?:(?!\]\n).)*/,lookbehind:!0,inside:{function:/\{\$.*\}/,keyword:n,number:/^\d+$/,punctuation:/[,|:]/}},keyword:n,number:{pattern:/\b\d+\s*[.{=]/,inside:{operator:/[.{=]/}},tag:{pattern:/\.?[-\w\\]+\.?/,inside:{punctuation:/\./}},punctuation:/[{}[\];(),.:|]/,operator:/[<>]=?|[!=]=?=?|--?|\+\+?|&&?|\|\|?|[?*/~^%]/},E.languages.tsconfig=E.languages.typoscript}(Prism);

diff --git a/README.md b/README.md
@@ -56,6 +56,7 @@ Web page with different kind of commands such as data bases, servers, S.O. and m
     │   │    ├──  index.js                  # main file js
     │   │    ├──  modal.js                  # handle modal openm close and show info inside
     │   │    ├──  pagination.js             # handle pagination
+    │   │    ├──  prism.js                  # handle styles of code to git, bash, react, ...
     │   │    ├──  services.js               # all services of web page: getCommands and getFilters
     │   │    └──  utils.js                  # utils such as parseQuery, getQueries, getQueriesCommanMeaning
     │   ├──  styles                         # only files css
@@ -64,6 +65,7 @@ Web page with different kind of commands such as data bases, servers, S.O. and m
     │   │    ├── index.css                  # main’s css
     │   │    ├── normalize.css              # css to normalize the styles of web page
     │   │    ├── pagination.css             # pagination’s css
+    │   │    ├── prism.css                  # prism’s css
     │   │    └── spinner.css                # spinner’s css
     │   └──  index.html                     # html file root
     ├── .env.development.local              # development global variables, e.g. API_URL
